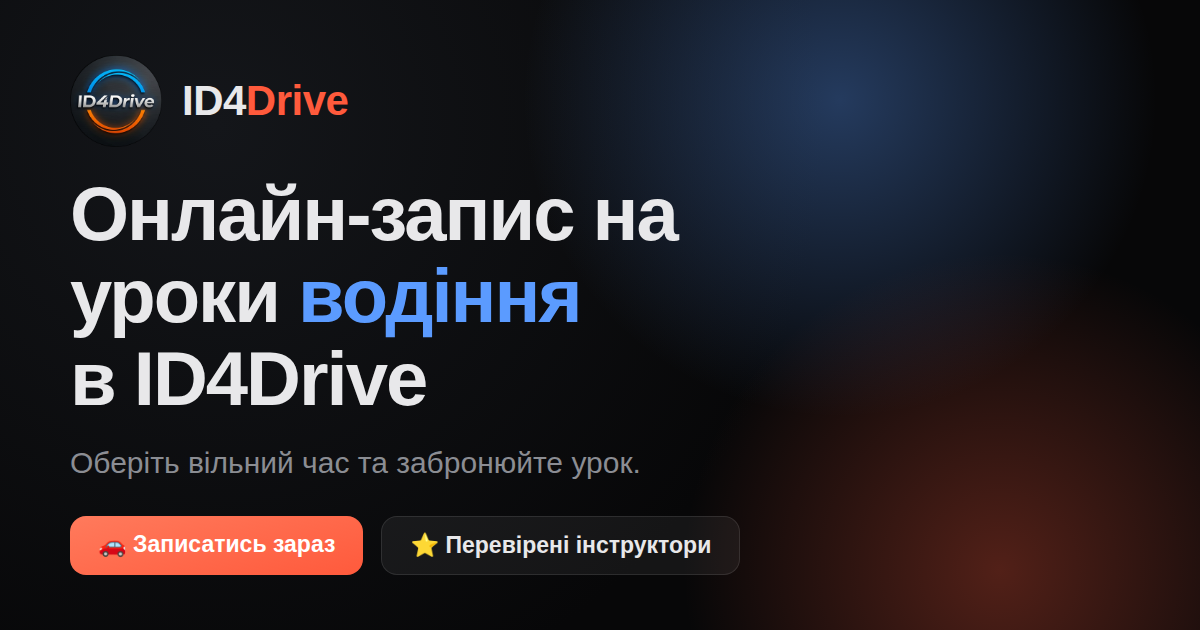
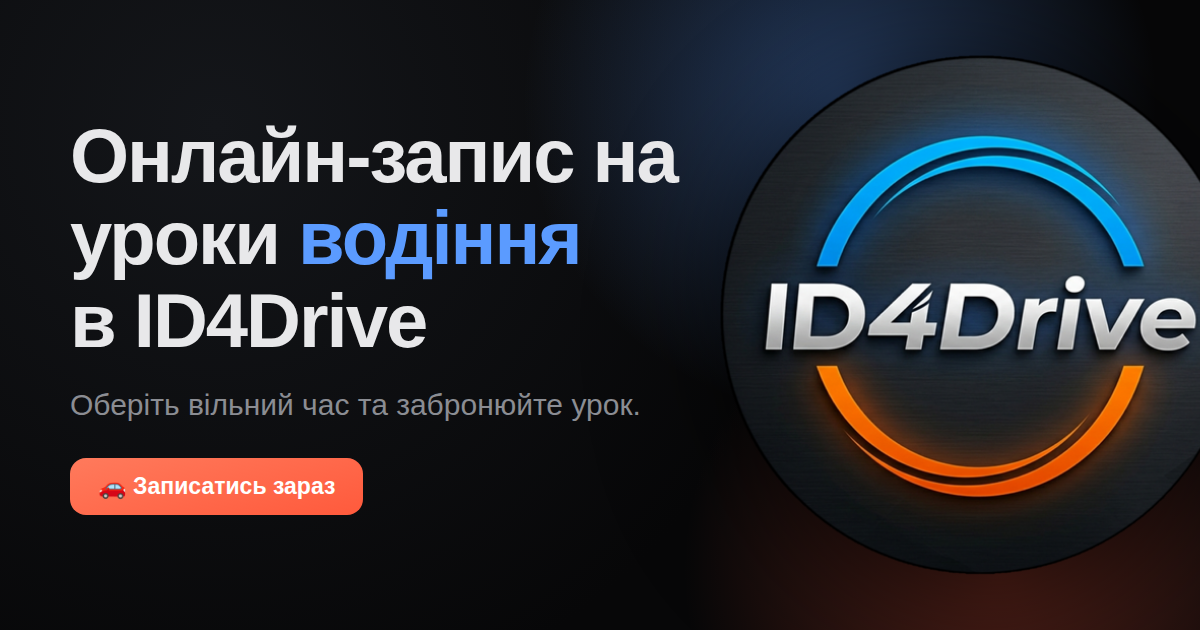
v08.09.20 — прибрав пілюлю "Перевірені інструктори", великий емблем ID4Drive справа на OG
Claude-Session: https://claude.ai/code/session_01Aa22m99xwuMps42ycP55yR

diff --git a/src/version.js b/src/version.js
@@ -1,1 +1,1 @@
-export const APP_VERSION = "v08.09.19";
+export const APP_VERSION = "v08.09.20";
